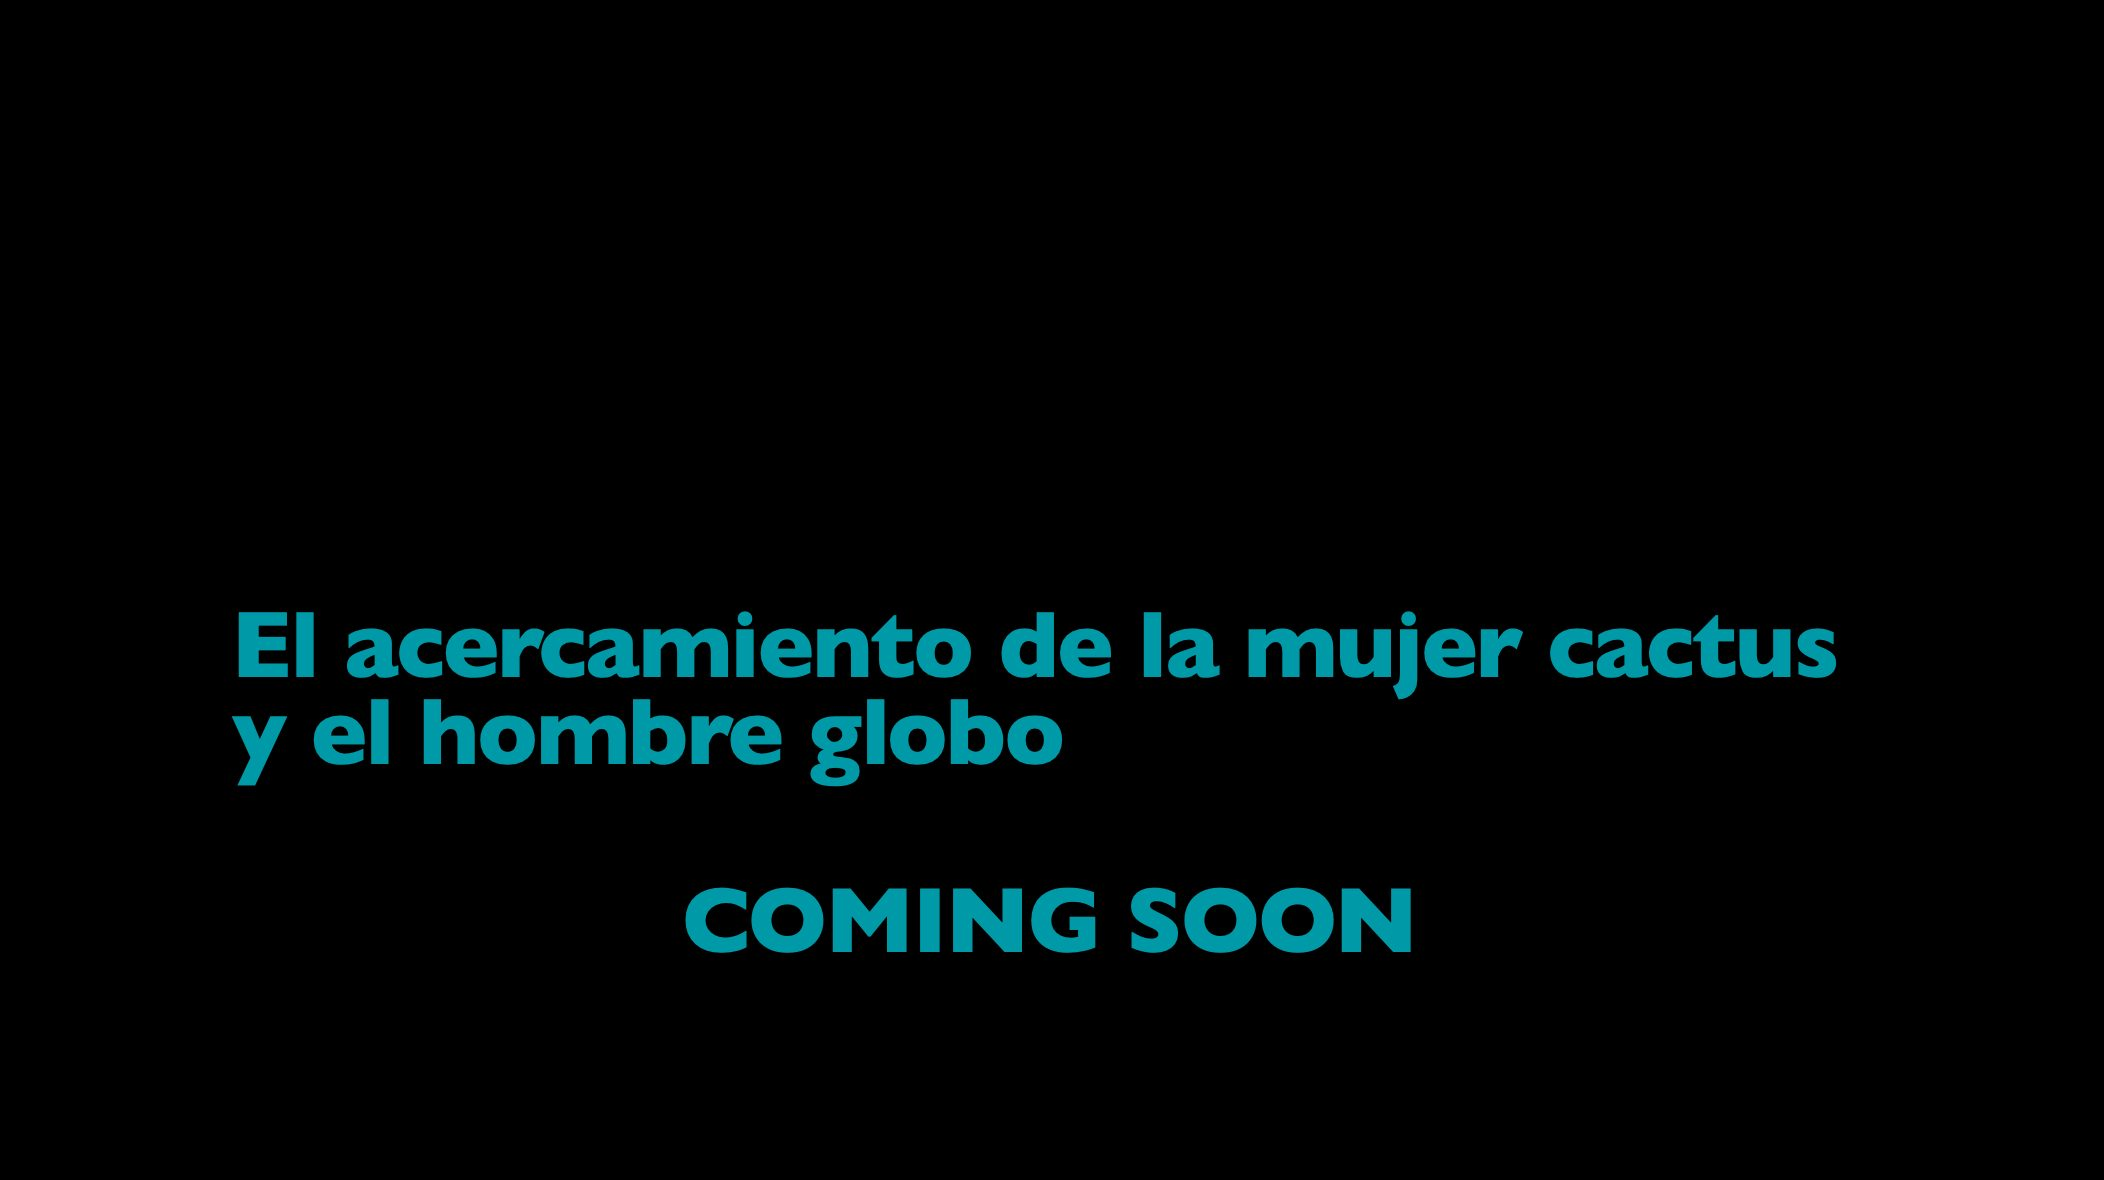
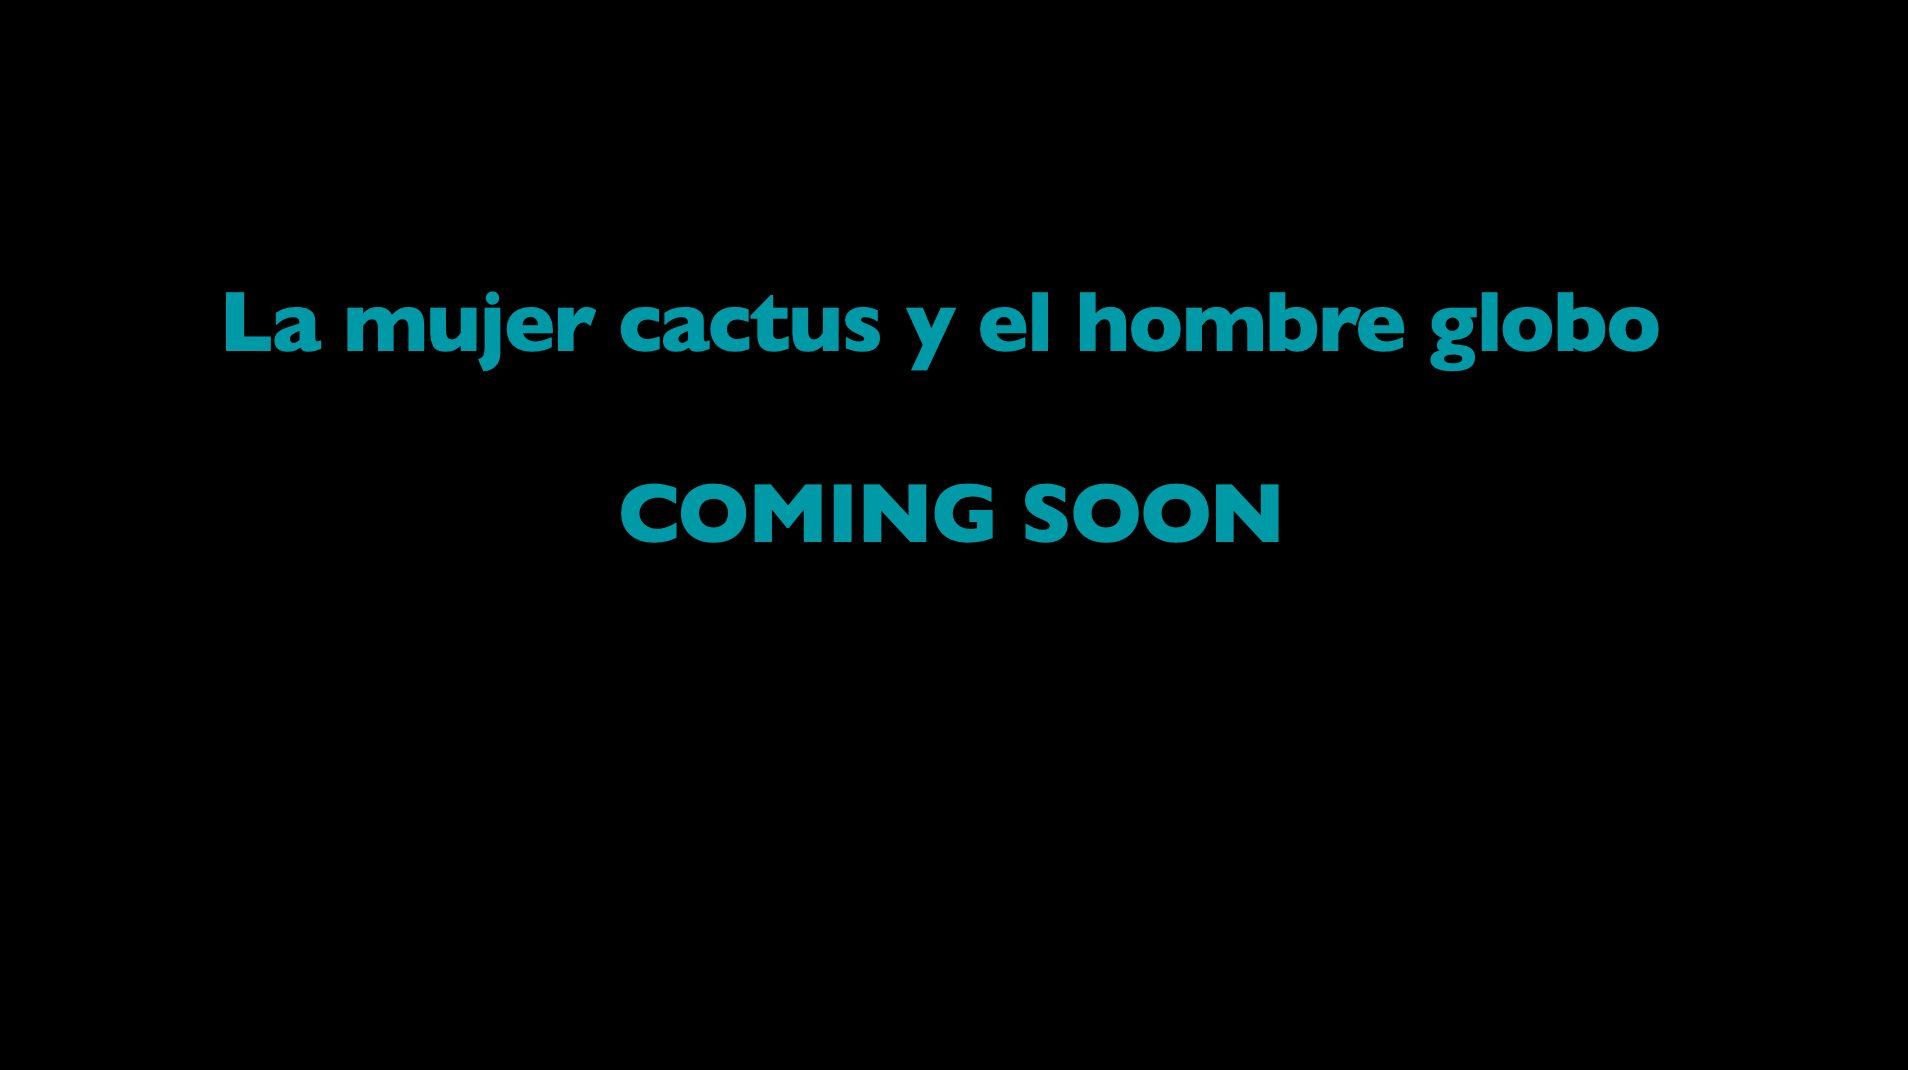
Gestor: 1 editado(s)

Changed region(s): [[0.0928, 0.4318, 0.8968, 0.6785], [0.0928, 0.2776, 0.8658, 0.3701], [0.3092, 0.7402, 0.6803, 0.8327]]

diff --git a/proyecto.html b/proyecto.html
@@ -21,9 +21,9 @@
   <meta name="twitter:title" content="IDOIA ESTEBAN · Production Designer">
   <meta name="twitter:description" content="Project by production designer Idoia Esteban.">
   <meta name="twitter:image" content="https://idoiaesteban.com/assets/img/og-idoia-esteban.jpg">
-  <link rel="stylesheet" href="assets/css/ajustes.css?v=202610271544">
-  <link rel="stylesheet" href="assets/css/base.css?v=202610271544">
-  <link rel="stylesheet" href="assets/css/proyecto.css?v=202610271544">
+  <link rel="stylesheet" href="assets/css/ajustes.css?v=202610271550">
+  <link rel="stylesheet" href="assets/css/base.css?v=202610271550">
+  <link rel="stylesheet" href="assets/css/proyecto.css?v=202610271550">
 </head>
 <body data-pagina="proyecto">
 
@@ -46,14 +46,14 @@
     <footer class="pie-contacto" id="contacto"></footer>
   </main>
 
-  <script src="contenido/datos-generados.js?v=202610271544"></script>
-  <script src="assets/js/trailers-idoia.js?v=202610271544"></script>
-  <script src="assets/js/ajustes.js?v=202610271544"></script>
-  <script src="assets/js/contenido.js?v=202610271544"></script>
-  <script src="assets/js/vendor/gsap.min.js?v=202610271544"></script>
-  <script src="assets/js/comun.js?v=202610271544"></script>
-  <script src="assets/js/diferencia.js?v=202610271544"></script>
-  <script src="assets/js/proyecto.js?v=202610271544"></script>
-  <script src="assets/js/seo.js?v=202610271544"></script>
+  <script src="contenido/datos-generados.js?v=202610271550"></script>
+  <script src="assets/js/trailers-idoia.js?v=202610271550"></script>
+  <script src="assets/js/ajustes.js?v=202610271550"></script>
+  <script src="assets/js/contenido.js?v=202610271550"></script>
+  <script src="assets/js/vendor/gsap.min.js?v=202610271550"></script>
+  <script src="assets/js/comun.js?v=202610271550"></script>
+  <script src="assets/js/diferencia.js?v=202610271550"></script>
+  <script src="assets/js/proyecto.js?v=202610271550"></script>
+  <script src="assets/js/seo.js?v=202610271550"></script>
 </body>
 </html>

diff --git a/comercials.html b/comercials.html
@@ -63,9 +63,9 @@
  ]
 }
   </script>
-  <link rel="stylesheet" href="assets/css/ajustes.css?v=202610271544">
-  <link rel="stylesheet" href="assets/css/base.css?v=202610271544">
-  <link rel="stylesheet" href="assets/css/lista.css?v=202610271544">
+  <link rel="stylesheet" href="assets/css/ajustes.css?v=202610271550">
+  <link rel="stylesheet" href="assets/css/base.css?v=202610271550">
+  <link rel="stylesheet" href="assets/css/lista.css?v=202610271550">
 </head>
 <body data-pagina="comercials">
   <h1 style="position:absolute;width:1px;height:1px;margin:-1px;padding:0;border:0;overflow:hidden;clip:rect(0 0 0 0);clip-path:inset(50%);white-space:nowrap">Commercials — Idoia Esteban, production designer</h1>
@@ -79,14 +79,14 @@
   </main>
   <div class="etiqueta-cursor mezcla" id="etiqueta" aria-hidden="true"></div>
 
-  <script src="contenido/datos-generados.js?v=202610271544"></script>
-  <script src="assets/js/trailers-idoia.js?v=202610271544"></script>
-  <script src="assets/js/ajustes.js?v=202610271544"></script>
-  <script src="assets/js/contenido.js?v=202610271544"></script>
-  <script src="assets/js/vendor/gsap.min.js?v=202610271544"></script>
-  <script src="assets/js/comun.js?v=202610271544"></script>
-  <script src="assets/js/diferencia.js?v=202610271544"></script>
-  <script src="assets/js/lista.js?v=202610271544"></script>
-  <script src="assets/js/seo.js?v=202610271544"></script>
+  <script src="contenido/datos-generados.js?v=202610271550"></script>
+  <script src="assets/js/trailers-idoia.js?v=202610271550"></script>
+  <script src="assets/js/ajustes.js?v=202610271550"></script>
+  <script src="assets/js/contenido.js?v=202610271550"></script>
+  <script src="assets/js/vendor/gsap.min.js?v=202610271550"></script>
+  <script src="assets/js/comun.js?v=202610271550"></script>
+  <script src="assets/js/diferencia.js?v=202610271550"></script>
+  <script src="assets/js/lista.js?v=202610271550"></script>
+  <script src="assets/js/seo.js?v=202610271550"></script>
 </body>
 </html>

diff --git a/videoclips.html b/videoclips.html
@@ -63,9 +63,9 @@
  ]
 }
   </script>
-  <link rel="stylesheet" href="assets/css/ajustes.css?v=202610271544">
-  <link rel="stylesheet" href="assets/css/base.css?v=202610271544">
-  <link rel="stylesheet" href="assets/css/lista.css?v=202610271544">
+  <link rel="stylesheet" href="assets/css/ajustes.css?v=202610271550">
+  <link rel="stylesheet" href="assets/css/base.css?v=202610271550">
+  <link rel="stylesheet" href="assets/css/lista.css?v=202610271550">
 </head>
 <body data-pagina="videoclips">
   <h1 style="position:absolute;width:1px;height:1px;margin:-1px;padding:0;border:0;overflow:hidden;clip:rect(0 0 0 0);clip-path:inset(50%);white-space:nowrap">Videoclips — Idoia Esteban, production designer</h1>
@@ -79,14 +79,14 @@
   </main>
   <div class="etiqueta-cursor mezcla" id="etiqueta" aria-hidden="true"></div>
 
-  <script src="contenido/datos-generados.js?v=202610271544"></script>
-  <script src="assets/js/trailers-idoia.js?v=202610271544"></script>
-  <script src="assets/js/ajustes.js?v=202610271544"></script>
-  <script src="assets/js/contenido.js?v=202610271544"></script>
-  <script src="assets/js/vendor/gsap.min.js?v=202610271544"></script>
-  <script src="assets/js/comun.js?v=202610271544"></script>
-  <script src="assets/js/diferencia.js?v=202610271544"></script>
-  <script src="assets/js/lista.js?v=202610271544"></script>
-  <script src="assets/js/seo.js?v=202610271544"></script>
+  <script src="contenido/datos-generados.js?v=202610271550"></script>
+  <script src="assets/js/trailers-idoia.js?v=202610271550"></script>
+  <script src="assets/js/ajustes.js?v=202610271550"></script>
+  <script src="assets/js/contenido.js?v=202610271550"></script>
+  <script src="assets/js/vendor/gsap.min.js?v=202610271550"></script>
+  <script src="assets/js/comun.js?v=202610271550"></script>
+  <script src="assets/js/diferencia.js?v=202610271550"></script>
+  <script src="assets/js/lista.js?v=202610271550"></script>
+  <script src="assets/js/seo.js?v=202610271550"></script>
 </body>
 </html>

diff --git a/series.html b/series.html
@@ -63,9 +63,9 @@
  ]
 }
   </script>
-  <link rel="stylesheet" href="assets/css/ajustes.css?v=202610271544">
-  <link rel="stylesheet" href="assets/css/base.css?v=202610271544">
-  <link rel="stylesheet" href="assets/css/lista.css?v=202610271544">
+  <link rel="stylesheet" href="assets/css/ajustes.css?v=202610271550">
+  <link rel="stylesheet" href="assets/css/base.css?v=202610271550">
+  <link rel="stylesheet" href="assets/css/lista.css?v=202610271550">
 </head>
 <body data-pagina="series">
   <h1 style="position:absolute;width:1px;height:1px;margin:-1px;padding:0;border:0;overflow:hidden;clip:rect(0 0 0 0);clip-path:inset(50%);white-space:nowrap">Series — Idoia Esteban, production designer</h1>
@@ -79,14 +79,14 @@
   </main>
   <div class="etiqueta-cursor mezcla" id="etiqueta" aria-hidden="true"></div>
 
-  <script src="contenido/datos-generados.js?v=202610271544"></script>
-  <script src="assets/js/trailers-idoia.js?v=202610271544"></script>
-  <script src="assets/js/ajustes.js?v=202610271544"></script>
-  <script src="assets/js/contenido.js?v=202610271544"></script>
-  <script src="assets/js/vendor/gsap.min.js?v=202610271544"></script>
-  <script src="assets/js/comun.js?v=202610271544"></script>
-  <script src="assets/js/diferencia.js?v=202610271544"></script>
-  <script src="assets/js/lista.js?v=202610271544"></script>
-  <script src="assets/js/seo.js?v=202610271544"></script>
+  <script src="contenido/datos-generados.js?v=202610271550"></script>
+  <script src="assets/js/trailers-idoia.js?v=202610271550"></script>
+  <script src="assets/js/ajustes.js?v=202610271550"></script>
+  <script src="assets/js/contenido.js?v=202610271550"></script>
+  <script src="assets/js/vendor/gsap.min.js?v=202610271550"></script>
+  <script src="assets/js/comun.js?v=202610271550"></script>
+  <script src="assets/js/diferencia.js?v=202610271550"></script>
+  <script src="assets/js/lista.js?v=202610271550"></script>
+  <script src="assets/js/seo.js?v=202610271550"></script>
 </body>
 </html>

diff --git a/films.html b/films.html
@@ -63,9 +63,9 @@
  ]
 }
   </script>
-  <link rel="stylesheet" href="assets/css/ajustes.css?v=202610271544">
-  <link rel="stylesheet" href="assets/css/base.css?v=202610271544">
-  <link rel="stylesheet" href="assets/css/lista.css?v=202610271544">
+  <link rel="stylesheet" href="assets/css/ajustes.css?v=202610271550">
+  <link rel="stylesheet" href="assets/css/base.css?v=202610271550">
+  <link rel="stylesheet" href="assets/css/lista.css?v=202610271550">
 </head>
 <body data-pagina="films">
   <h1 style="position:absolute;width:1px;height:1px;margin:-1px;padding:0;border:0;overflow:hidden;clip:rect(0 0 0 0);clip-path:inset(50%);white-space:nowrap">Films — Idoia Esteban, production designer</h1>
@@ -79,14 +79,14 @@
   </main>
   <div class="etiqueta-cursor mezcla" id="etiqueta" aria-hidden="true"></div>
 
-  <script src="contenido/datos-generados.js?v=202610271544"></script>
-  <script src="assets/js/trailers-idoia.js?v=202610271544"></script>
-  <script src="assets/js/ajustes.js?v=202610271544"></script>
-  <script src="assets/js/contenido.js?v=202610271544"></script>
-  <script src="assets/js/vendor/gsap.min.js?v=202610271544"></script>
-  <script src="assets/js/comun.js?v=202610271544"></script>
-  <script src="assets/js/diferencia.js?v=202610271544"></script>
-  <script src="assets/js/lista.js?v=202610271544"></script>
-  <script src="assets/js/seo.js?v=202610271544"></script>
+  <script src="contenido/datos-generados.js?v=202610271550"></script>
+  <script src="assets/js/trailers-idoia.js?v=202610271550"></script>
+  <script src="assets/js/ajustes.js?v=202610271550"></script>
+  <script src="assets/js/contenido.js?v=202610271550"></script>
+  <script src="assets/js/vendor/gsap.min.js?v=202610271550"></script>
+  <script src="assets/js/comun.js?v=202610271550"></script>
+  <script src="assets/js/diferencia.js?v=202610271550"></script>
+  <script src="assets/js/lista.js?v=202610271550"></script>
+  <script src="assets/js/seo.js?v=202610271550"></script>
 </body>
 </html>

diff --git a/work.html b/work.html
@@ -63,9 +63,9 @@
  ]
 }
   </script>
-  <link rel="stylesheet" href="assets/css/ajustes.css?v=202610271544">
-  <link rel="stylesheet" href="assets/css/base.css?v=202610271544">
-  <link rel="stylesheet" href="assets/css/lista.css?v=202610271544">
+  <link rel="stylesheet" href="assets/css/ajustes.css?v=202610271550">
+  <link rel="stylesheet" href="assets/css/base.css?v=202610271550">
+  <link rel="stylesheet" href="assets/css/lista.css?v=202610271550">
 </head>
 <body data-pagina="work">
   <h1 style="position:absolute;width:1px;height:1px;margin:-1px;padding:0;border:0;overflow:hidden;clip:rect(0 0 0 0);clip-path:inset(50%);white-space:nowrap">Work — Idoia Esteban, production designer</h1>
@@ -80,14 +80,14 @@
   </main>
   <div class="etiqueta-cursor mezcla" id="etiqueta" aria-hidden="true"></div>
 
-  <script src="contenido/datos-generados.js?v=202610271544"></script>
-  <script src="assets/js/trailers-idoia.js?v=202610271544"></script>
-  <script src="assets/js/ajustes.js?v=202610271544"></script>
-  <script src="assets/js/contenido.js?v=202610271544"></script>
-  <script src="assets/js/vendor/gsap.min.js?v=202610271544"></script>
-  <script src="assets/js/comun.js?v=202610271544"></script>
-  <script src="assets/js/diferencia.js?v=202610271544"></script>
-  <script src="assets/js/lista.js?v=202610271544"></script>
-  <script src="assets/js/seo.js?v=202610271544"></script>
+  <script src="contenido/datos-generados.js?v=202610271550"></script>
+  <script src="assets/js/trailers-idoia.js?v=202610271550"></script>
+  <script src="assets/js/ajustes.js?v=202610271550"></script>
+  <script src="assets/js/contenido.js?v=202610271550"></script>
+  <script src="assets/js/vendor/gsap.min.js?v=202610271550"></script>
+  <script src="assets/js/comun.js?v=202610271550"></script>
+  <script src="assets/js/diferencia.js?v=202610271550"></script>
+  <script src="assets/js/lista.js?v=202610271550"></script>
+  <script src="assets/js/seo.js?v=202610271550"></script>
 </body>
 </html>

diff --git a/index.html b/index.html
@@ -127,9 +127,9 @@
  ]
 }
   </script>
-  <link rel="stylesheet" href="assets/css/ajustes.css?v=202610271544">
-  <link rel="stylesheet" href="assets/css/base.css?v=202610271544">
-  <link rel="stylesheet" href="assets/css/inicio.css?v=202610271544">
+  <link rel="stylesheet" href="assets/css/ajustes.css?v=202610271550">
+  <link rel="stylesheet" href="assets/css/base.css?v=202610271550">
+  <link rel="stylesheet" href="assets/css/inicio.css?v=202610271550">
 </head>
 <body class="pagina-inicio" data-pagina="inicio">
   <h1 style="position:absolute;width:1px;height:1px;margin:-1px;padding:0;border:0;overflow:hidden;clip:rect(0 0 0 0);clip-path:inset(50%);white-space:nowrap">Idoia Esteban — production designer</h1>
@@ -147,14 +147,14 @@
     </a>
   </main>
 
-  <script src="contenido/datos-generados.js?v=202610271544"></script>
-  <script src="assets/js/trailers-idoia.js?v=202610271544"></script>
-  <script src="assets/js/ajustes.js?v=202610271544"></script>
-  <script src="assets/js/contenido.js?v=202610271544"></script>
-  <script src="assets/js/vendor/gsap.min.js?v=202610271544"></script>
-  <script src="assets/js/comun.js?v=202610271544"></script>
-  <script src="assets/js/delfines.js?v=202610271544"></script>
-  <script src="assets/js/diferencia.js?v=202610271544"></script>
-  <script src="assets/js/inicio.js?v=202610271544"></script>
+  <script src="contenido/datos-generados.js?v=202610271550"></script>
+  <script src="assets/js/trailers-idoia.js?v=202610271550"></script>
+  <script src="assets/js/ajustes.js?v=202610271550"></script>
+  <script src="assets/js/contenido.js?v=202610271550"></script>
+  <script src="assets/js/vendor/gsap.min.js?v=202610271550"></script>
+  <script src="assets/js/comun.js?v=202610271550"></script>
+  <script src="assets/js/delfines.js?v=202610271550"></script>
+  <script src="assets/js/diferencia.js?v=202610271550"></script>
+  <script src="assets/js/inicio.js?v=202610271550"></script>
 </body>
 </html>

diff --git a/contact.html b/contact.html
@@ -123,9 +123,9 @@
  ]
 }
   </script>
-  <link rel="stylesheet" href="assets/css/ajustes.css?v=202610271544">
-  <link rel="stylesheet" href="assets/css/base.css?v=202610271544">
-  <link rel="stylesheet" href="assets/css/contact.css?v=202610271544">
+  <link rel="stylesheet" href="assets/css/ajustes.css?v=202610271550">
+  <link rel="stylesheet" href="assets/css/base.css?v=202610271550">
+  <link rel="stylesheet" href="assets/css/contact.css?v=202610271550">
 </head>
 <body data-pagina="contact">
   <h1 style="position:absolute;width:1px;height:1px;margin:-1px;padding:0;border:0;overflow:hidden;clip:rect(0 0 0 0);clip-path:inset(50%);white-space:nowrap">Idoia Esteban — production designer · Contact</h1>
@@ -151,14 +151,14 @@
     </div>
   </main>
 
-  <script src="contenido/datos-generados.js?v=202610271544"></script>
-  <script src="assets/js/trailers-idoia.js?v=202610271544"></script>
-  <script src="assets/js/ajustes.js?v=202610271544"></script>
-  <script src="assets/js/contenido.js?v=202610271544"></script>
-  <script src="assets/js/vendor/gsap.min.js?v=202610271544"></script>
-  <script src="assets/js/comun.js?v=202610271544"></script>
-  <script src="assets/js/delfines.js?v=202610271544"></script>
-  <script src="assets/js/diferencia.js?v=202610271544"></script>
-  <script src="assets/js/contact.js?v=202610271544"></script>
+  <script src="contenido/datos-generados.js?v=202610271550"></script>
+  <script src="assets/js/trailers-idoia.js?v=202610271550"></script>
+  <script src="assets/js/ajustes.js?v=202610271550"></script>
+  <script src="assets/js/contenido.js?v=202610271550"></script>
+  <script src="assets/js/vendor/gsap.min.js?v=202610271550"></script>
+  <script src="assets/js/comun.js?v=202610271550"></script>
+  <script src="assets/js/delfines.js?v=202610271550"></script>
+  <script src="assets/js/diferencia.js?v=202610271550"></script>
+  <script src="assets/js/contact.js?v=202610271550"></script>
 </body>
 </html>

diff --git a/gestor.html b/gestor.html
@@ -320,7 +320,7 @@ button { cursor: pointer; background: none; border: 0; }
   <!-- Arrastrar un .zip de actualización a cualquier parte de la ventana -->
   <div class="soltar-zip" id="soltarZip">Suelta aquí el .zip con la actualización de la web</div>
 
-  <script src="assets/js/trailers-idoia.js?v=202610271544"></script>
+  <script src="assets/js/trailers-idoia.js?v=202610271550"></script>
   <script>
 /* =====================================================================
    GESTOR DE LA WEB

diff --git a/contenido/datos-generados.js b/contenido/datos-generados.js
@@ -14,7 +14,7 @@ portada: 01.jpg
 ---
 `,
       "archivos": [
-      {"f":"01.jpg","w":2104,"h":1180}]
+      {"f":"01.jpg","w":1908,"h":1070}]
     },
     {
       "carpeta": "a-mil-km-de-la-navidad",
@@ -1035,4 +1035,4 @@ Enjoy!
     "archivos": []
   }
 };
-/* gestor: 202610271544 */
+/* gestor: 202610271550 */
